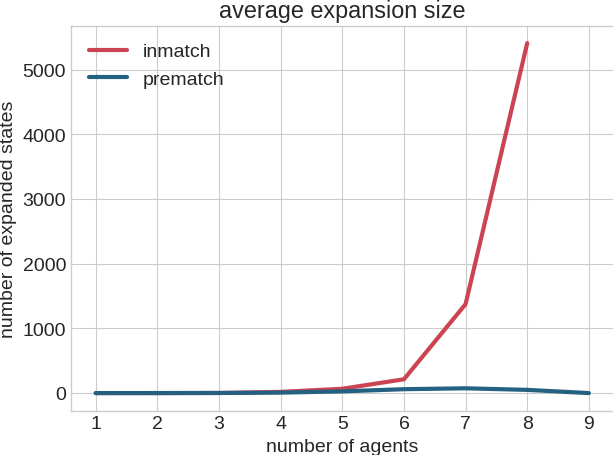
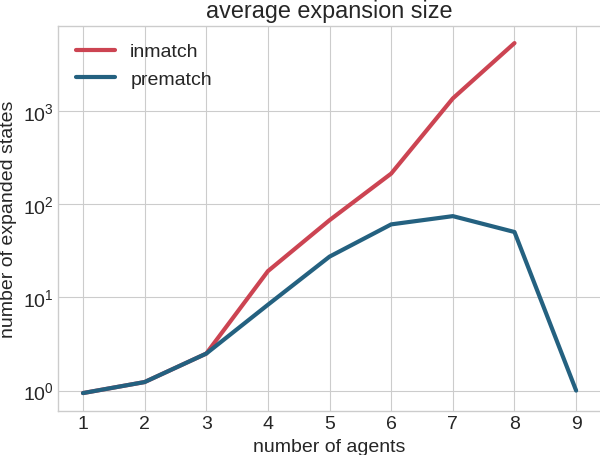
log graph

diff --git a/python/benchmarks/graph_expansion.py b/python/benchmarks/graph_expansion.py
@@ -20,6 +20,7 @@ def graph_results(*args):
 
     expansions.xaxis.set_major_locator(MaxNLocator(integer=True))
     expansions.set_ylabel("number of expanded states")
+    expansions.set_yscale('log')
 
     expansions.set_xlabel("number of agents")
 
